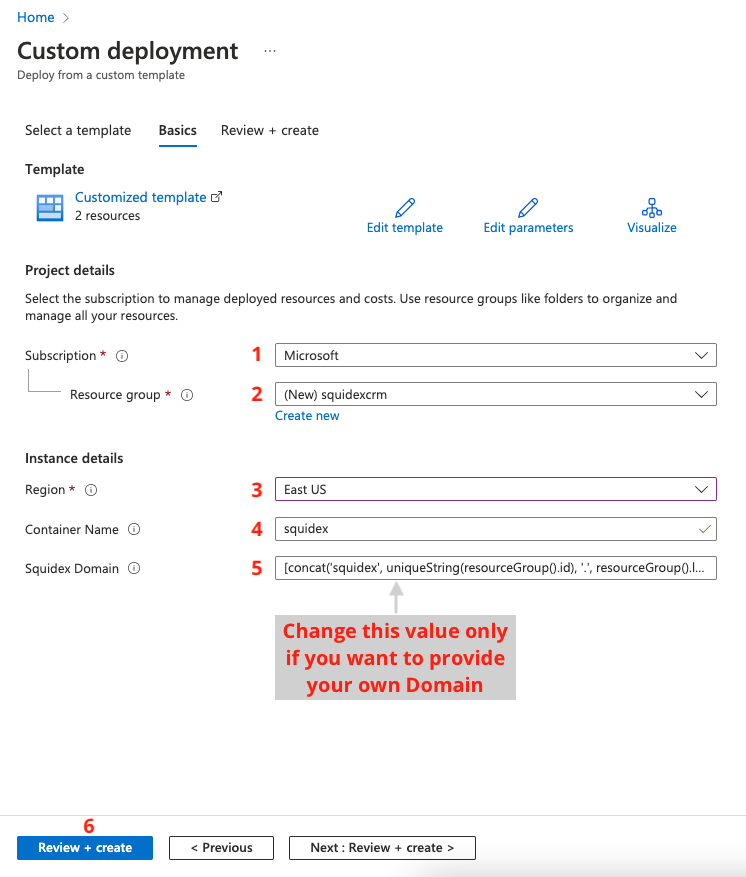
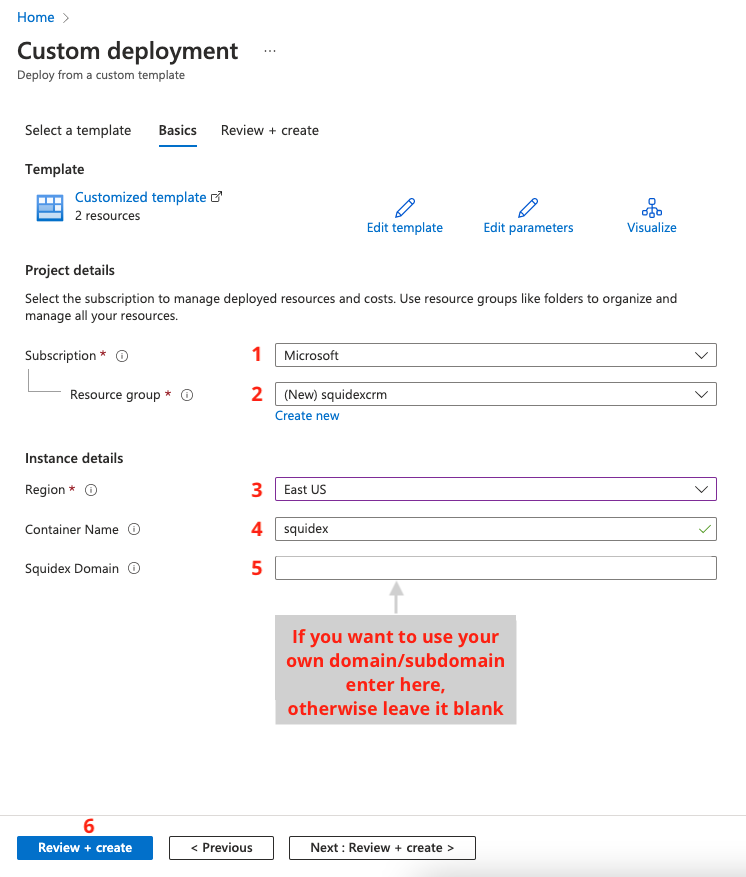
Corrections in Azure ARM instructions (#34)
* Correction of instructions for own domain step

* Update ARM template screenshot

* Correct syntax error

diff --git a/01-getting-started/installation/platforms/install-on-azure-arm.md b/01-getting-started/installation/platforms/install-on-azure-arm.md
@@ -60,7 +60,7 @@ On the Custom deployment page complete the following steps to submit the deploym
    * If creating a new Resource group, enter a name and click Ok.
 3. Select your preferred **Region** from the list.
 4. Enter a name for the Container Group in **Container Name** field. (It uses the Resource Group name by default but you are free to change it)
-5. If you wish to provide your own Domain/Sub-domain (e.g. example.com or squidex.example.com), replace the value in **Squidex Domain** field with your own domain details.
+5. If you wish to provide your own Domain/Sub-domain (e.g. example.com or squidex.example.com) enter it in the **Squidex Domain** field, otherwise leave it blank.
 6. Click **Review + create**.
 
 ![Deploy ARM Template](../../../images/started/azure/squidex-arm-01.png)
